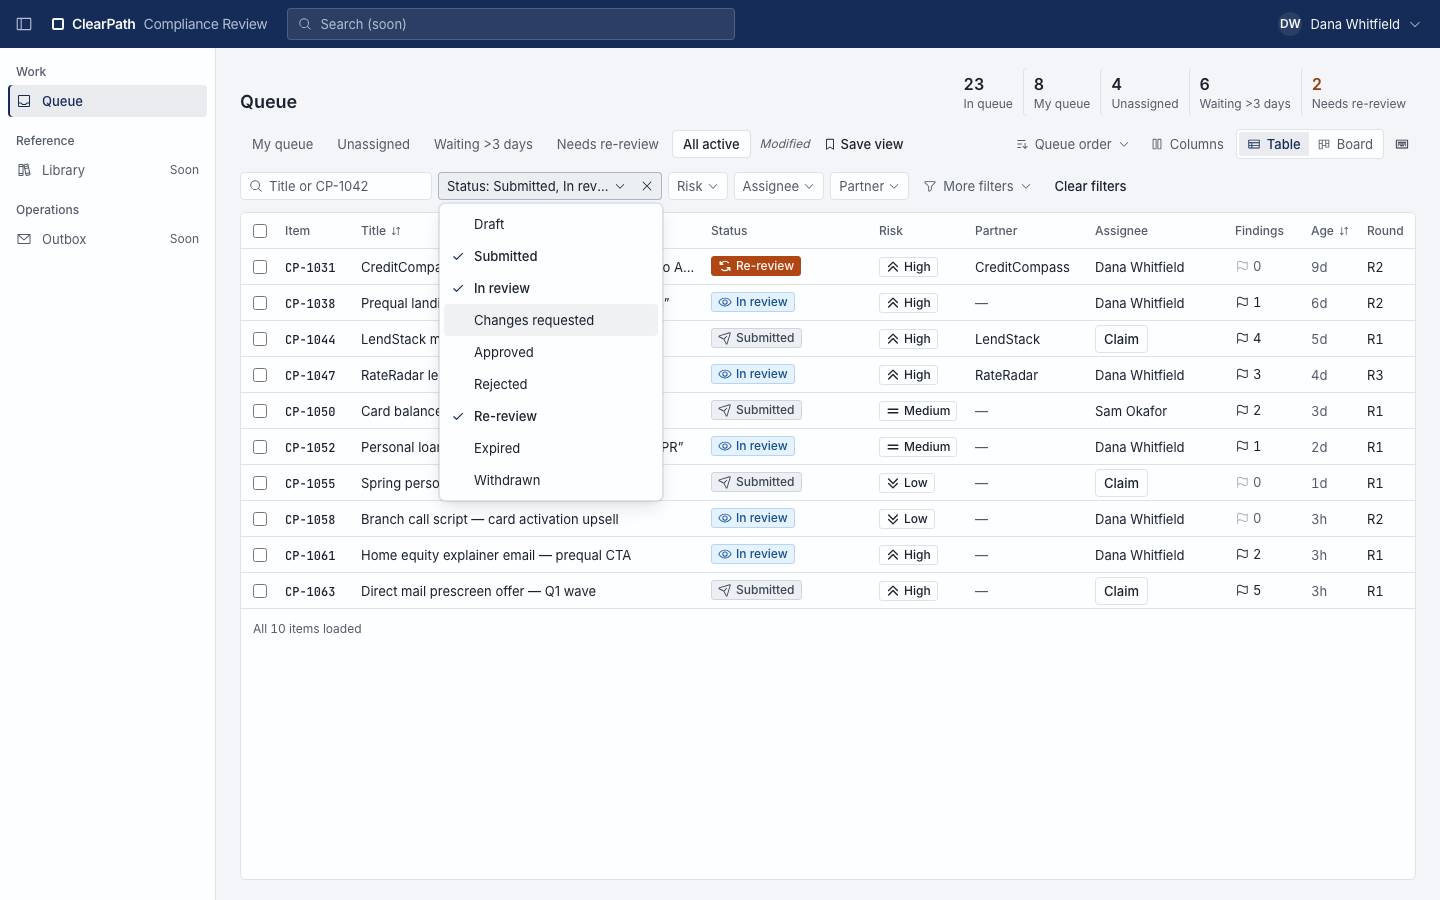
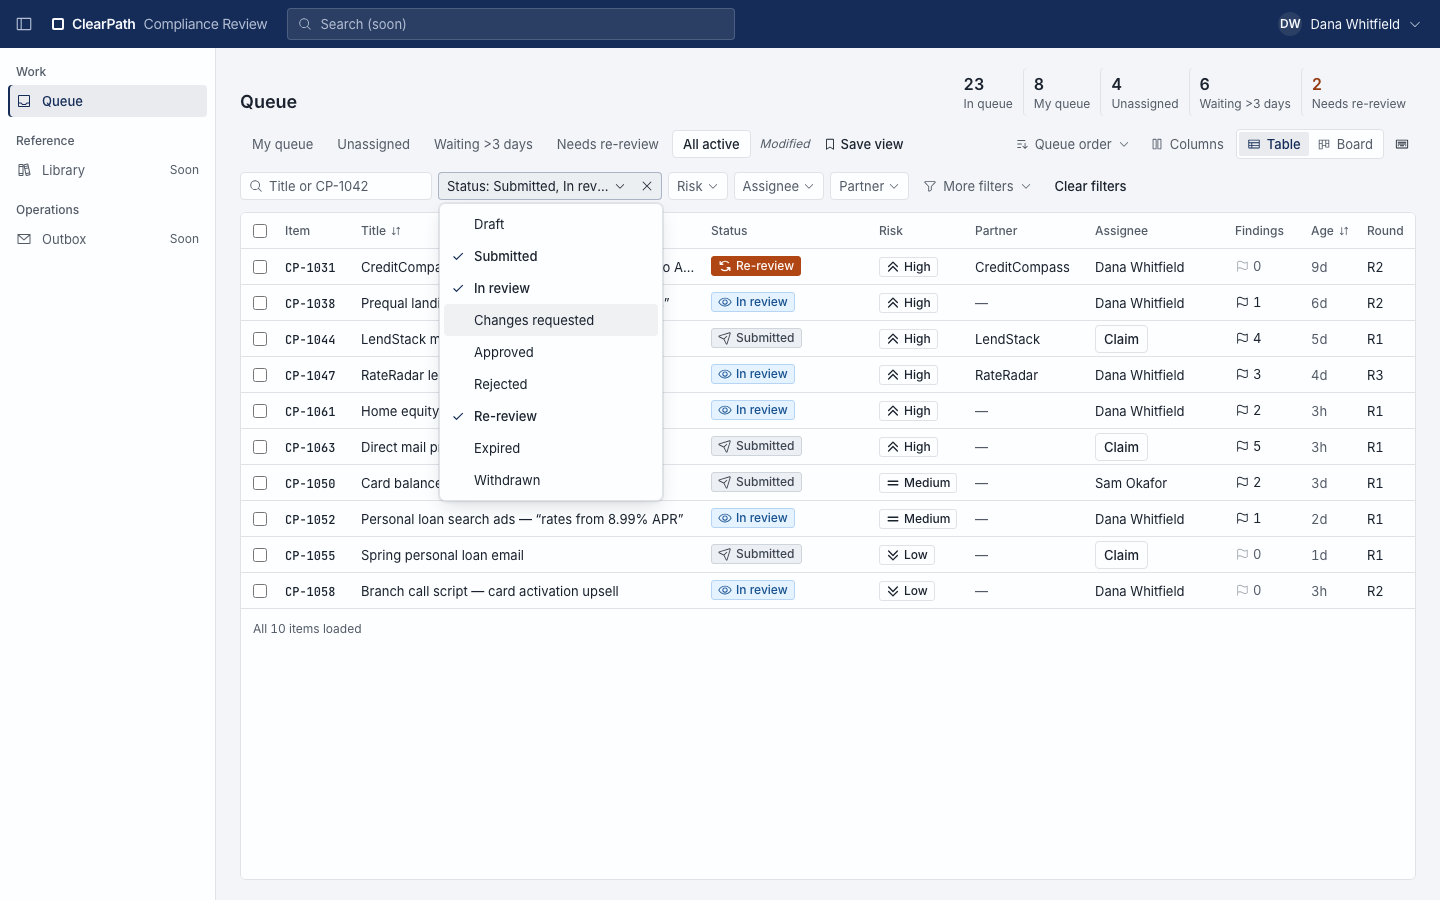
Queue: serve stub rows in queue order everywhere; document drawer column edges

diff --git a/frontend/e2e/api.ts b/frontend/e2e/api.ts
@@ -437,7 +437,10 @@ export async function stubApi(page: Page, opts: StubOptions = {}) {
           opts.items,
         );
       }
-      return fulfill(route, { rows, next_cursor: null });
+      return fulfill(route, {
+        rows: url.searchParams.get('sort') === 'queue' ? queueOrder(rows) : rows,
+        next_cursor: null,
+      });
     }
     if (path === '/api/views') {
       if (typeof opts.views === 'number') return fulfill(route, { code: 'x', message: 'down' }, opts.views);

diff --git a/frontend/e2e/screenshots.spec.ts b/frontend/e2e/screenshots.spec.ts
@@ -107,6 +107,7 @@ const shots: Shot[] = [
   },
   {
     name: 'more-filters',
+    path: ACTIVE,
     ready: async (page) => {
       await expect(page.getByRole('table', { name: 'Queue' })).toBeVisible();
       await page.getByRole('button', { name: 'More filters' }).click();

diff --git a/docs/plan/reports/queue.md b/docs/plan/reports/queue.md
@@ -129,3 +129,7 @@ Not exercisable: claim/assign/bulk (501 stubs).
 - **Sign-in is minimal by design**: no password reset, no MFA step (a 401 from login says so), no signup.
 - **Board shows the first 200 items per query** and says so when truncated.
 - **Keyboard column resizing** isn't offered (pointer only); every column can also be hidden.
+- **Drawer-open column hiding has two edges.** (a) The Columns chooser shows the user's choice, not what's rendered:
+  with the preview open, Partner can be checked in the chooser yet not shown. (b) Hiding Risk removes the inline risk
+  editor while the preview is open, and the drawer's risk badge is read-only; close the preview (Esc) to edit it.
+  Both follow from showing the drawer's facts once instead of twice at 1280.
